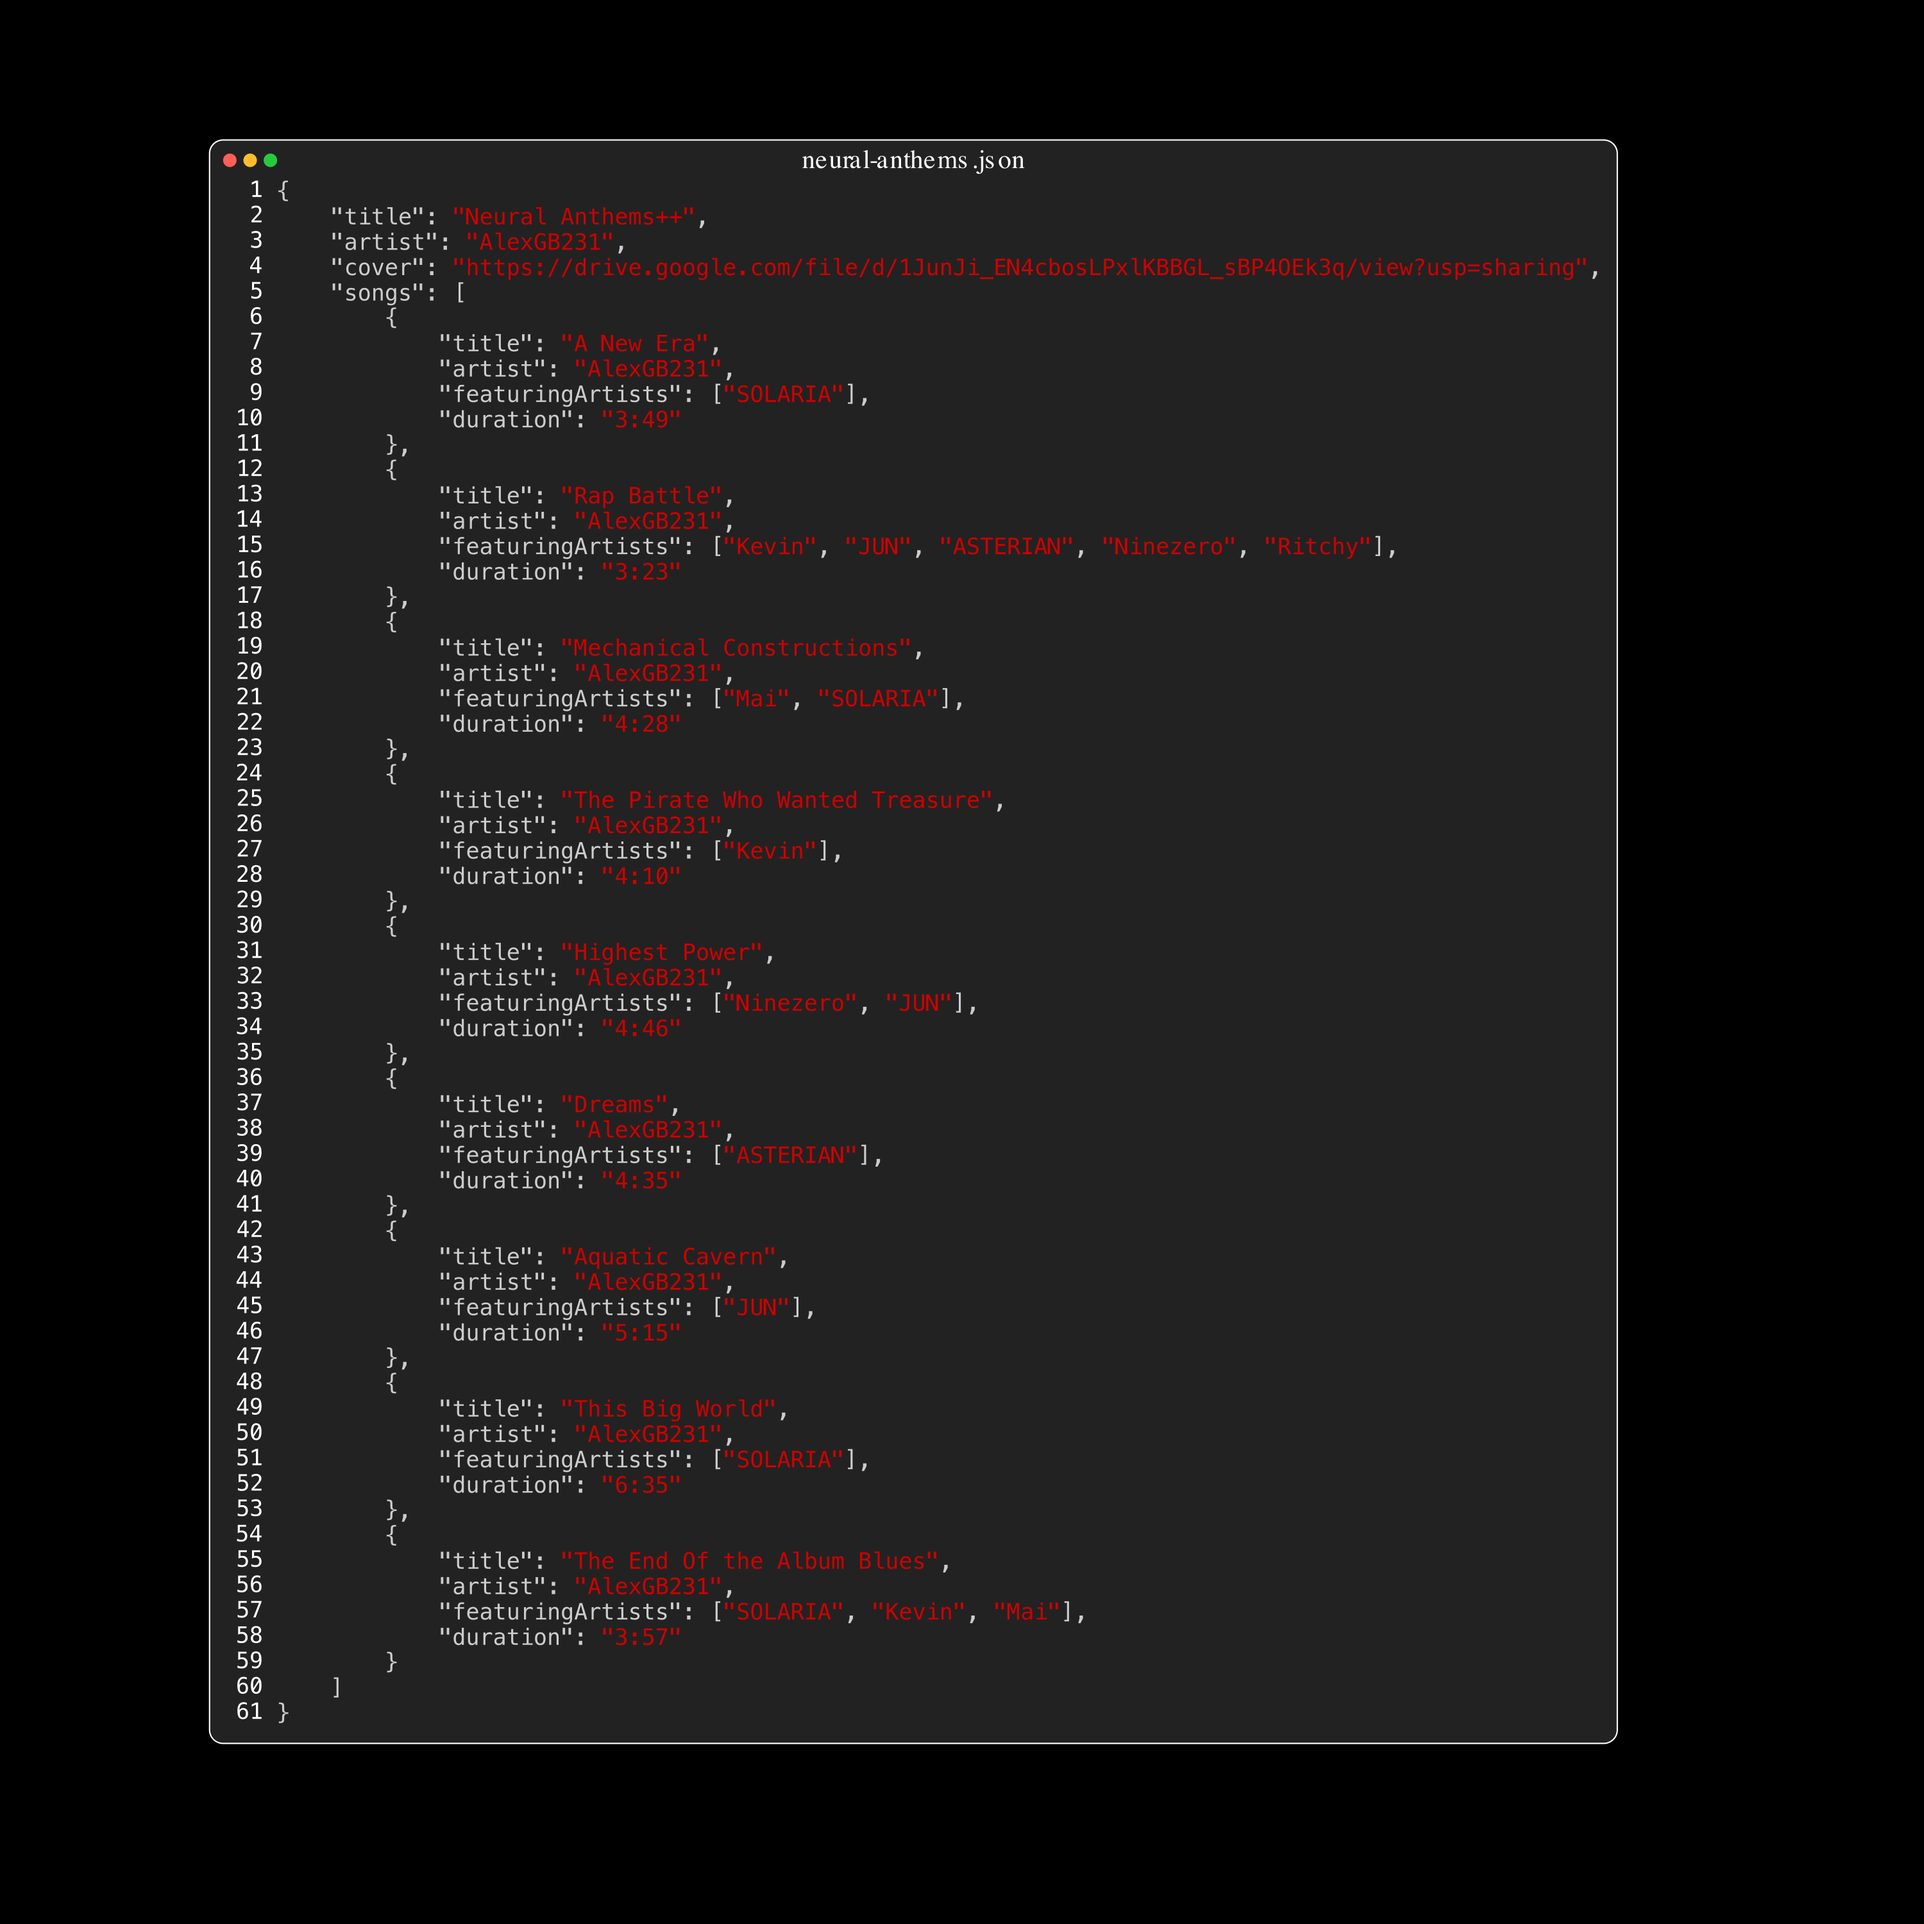
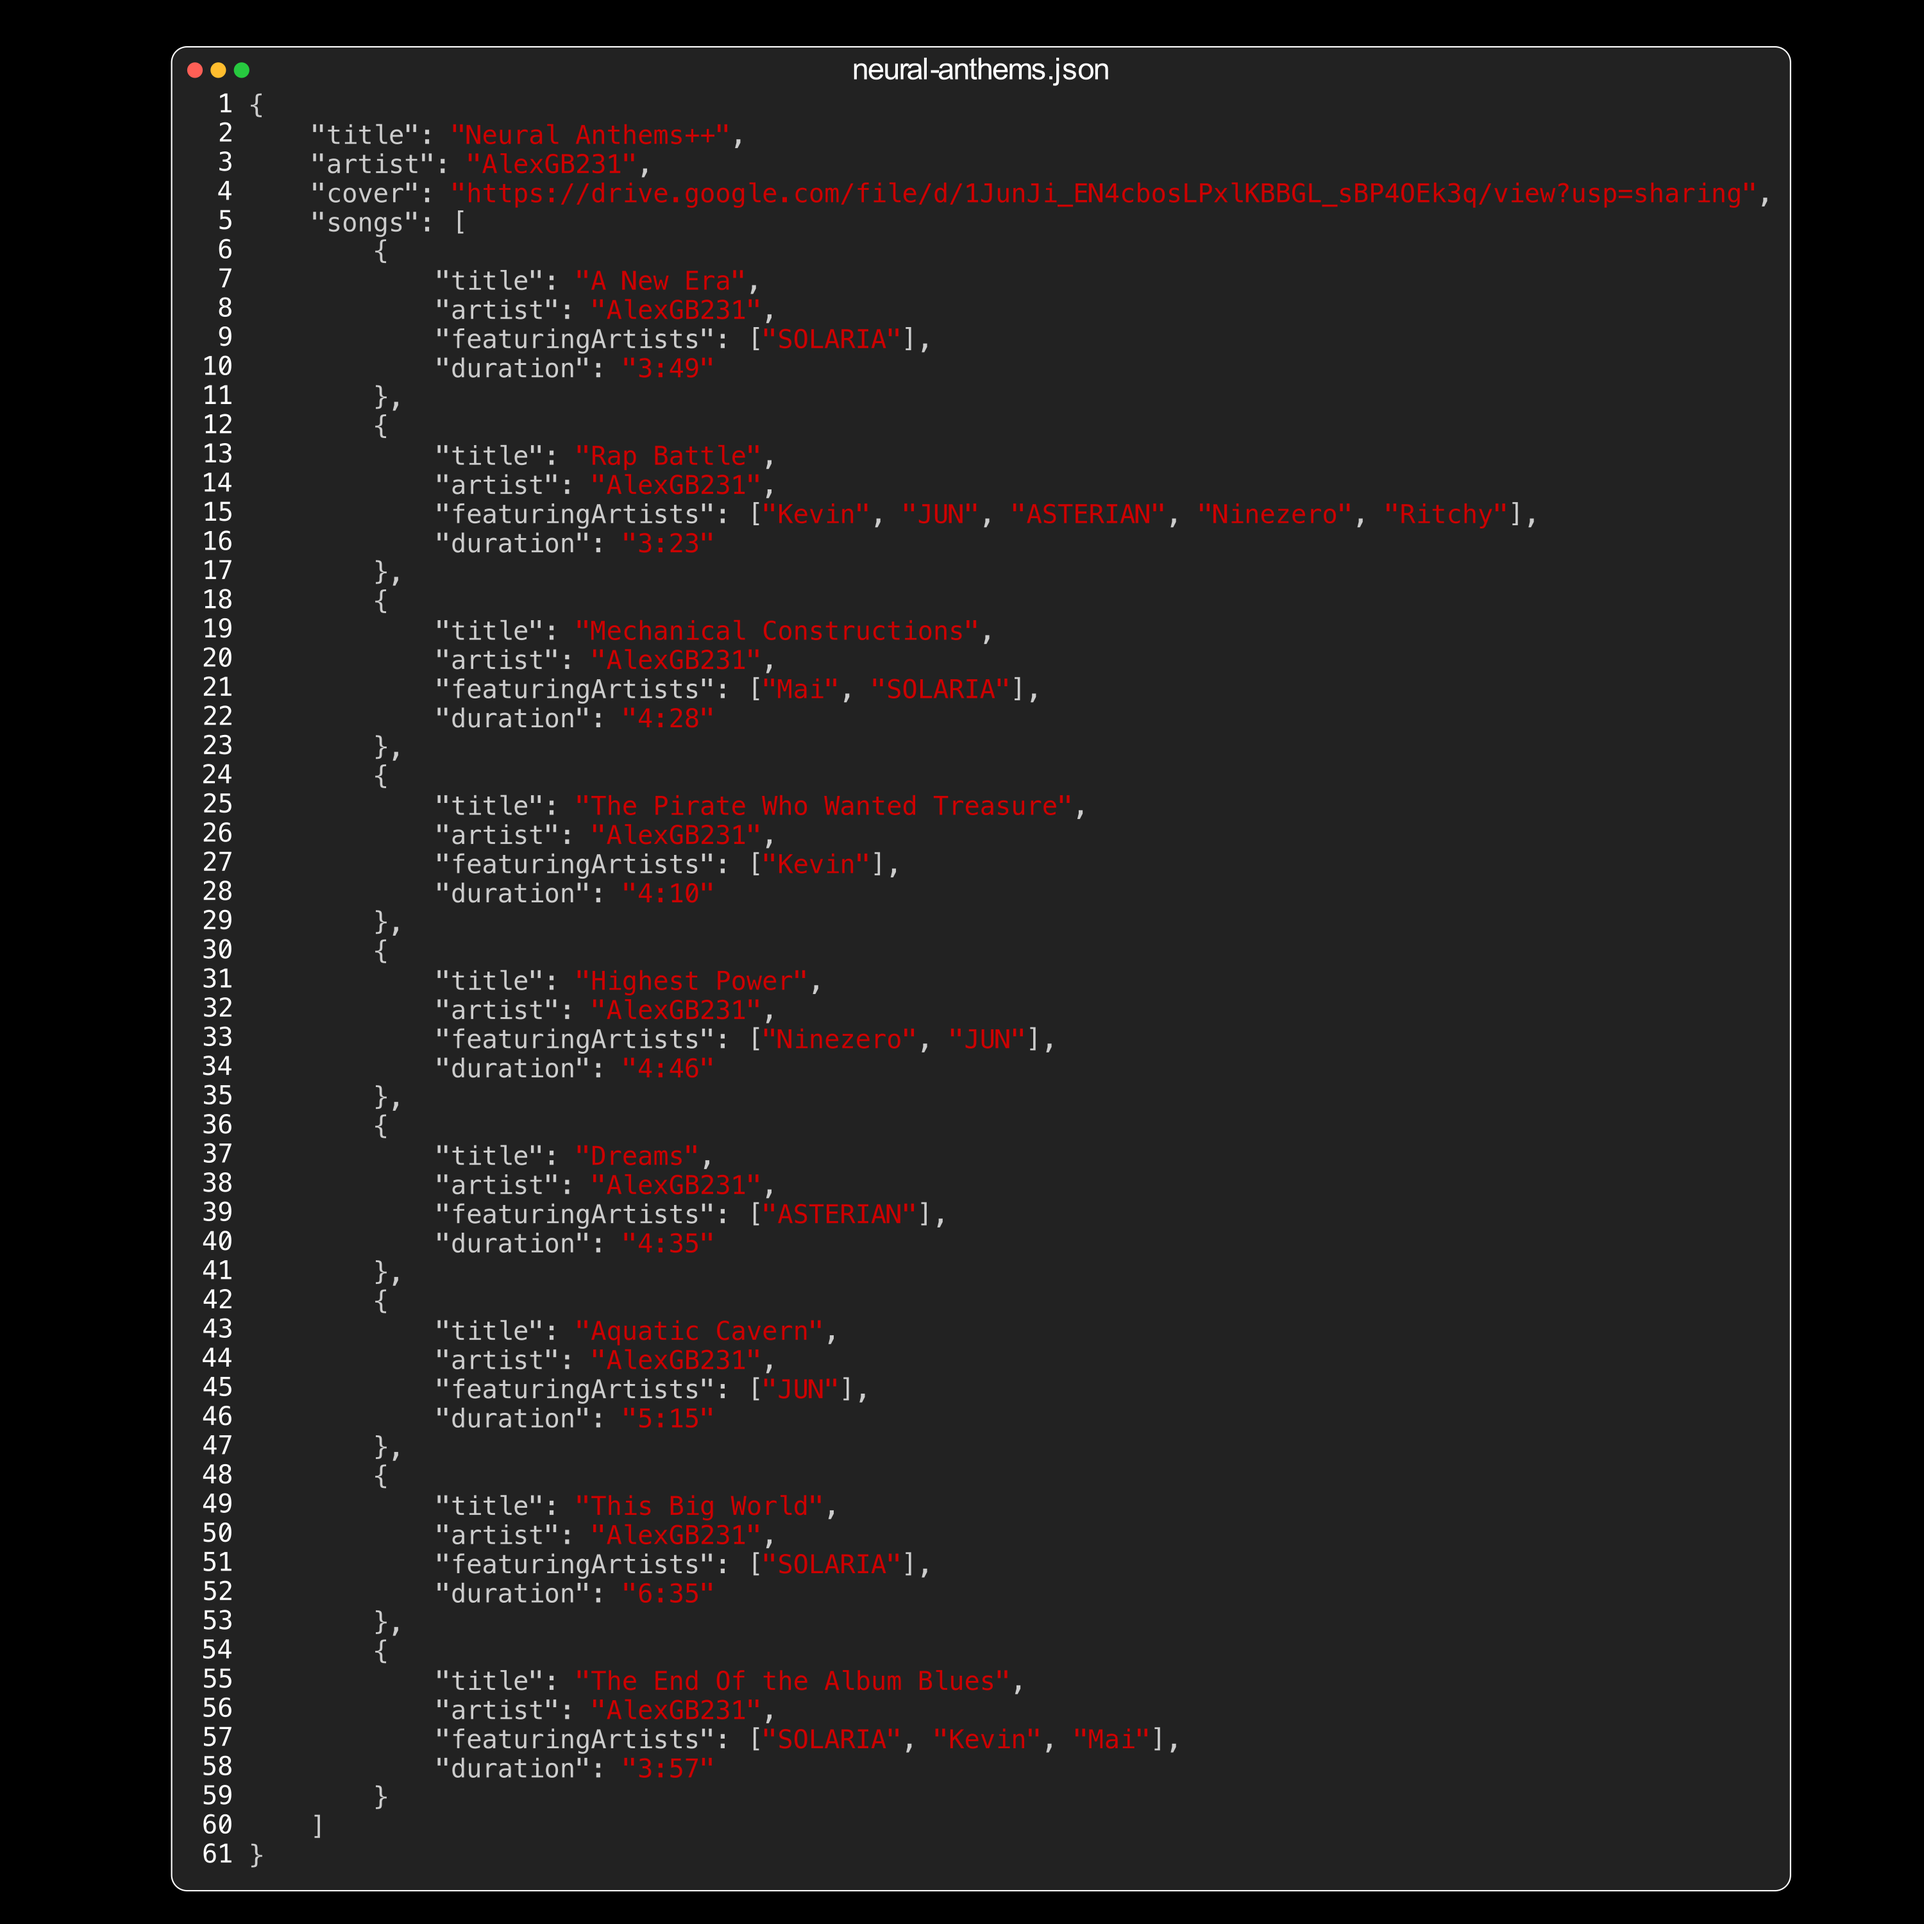
Changed font of display-json header

diff --git a/display-json.py b/display-json.py
@@ -4,8 +4,9 @@ from manim import *
 class DisplayJSON(Scene):
     def construct(self):
         filename = "neural-anthems.json"
-        code_window = Code(code_file=filename, language="Javascript", background="window").scale(0.5)
-        window_header = Text(filename, font_size=14).next_to(code_window, UP, buff=-0.25)
-        self.add_foreground_mobject(window_header)
+        code_window = VGroup(Code(code_file=filename, language="Javascript", background="window").scale(0.5))
+        code_window.add(Text(filename, font_size=14, font="Arial").next_to(code_window, UP, buff=-0.25))
 
-        self.add(window_header, code_window)
+        code_window.scale(1.15).shift(0.5*RIGHT+0.2*DOWN)
+
+        self.add(code_window)
